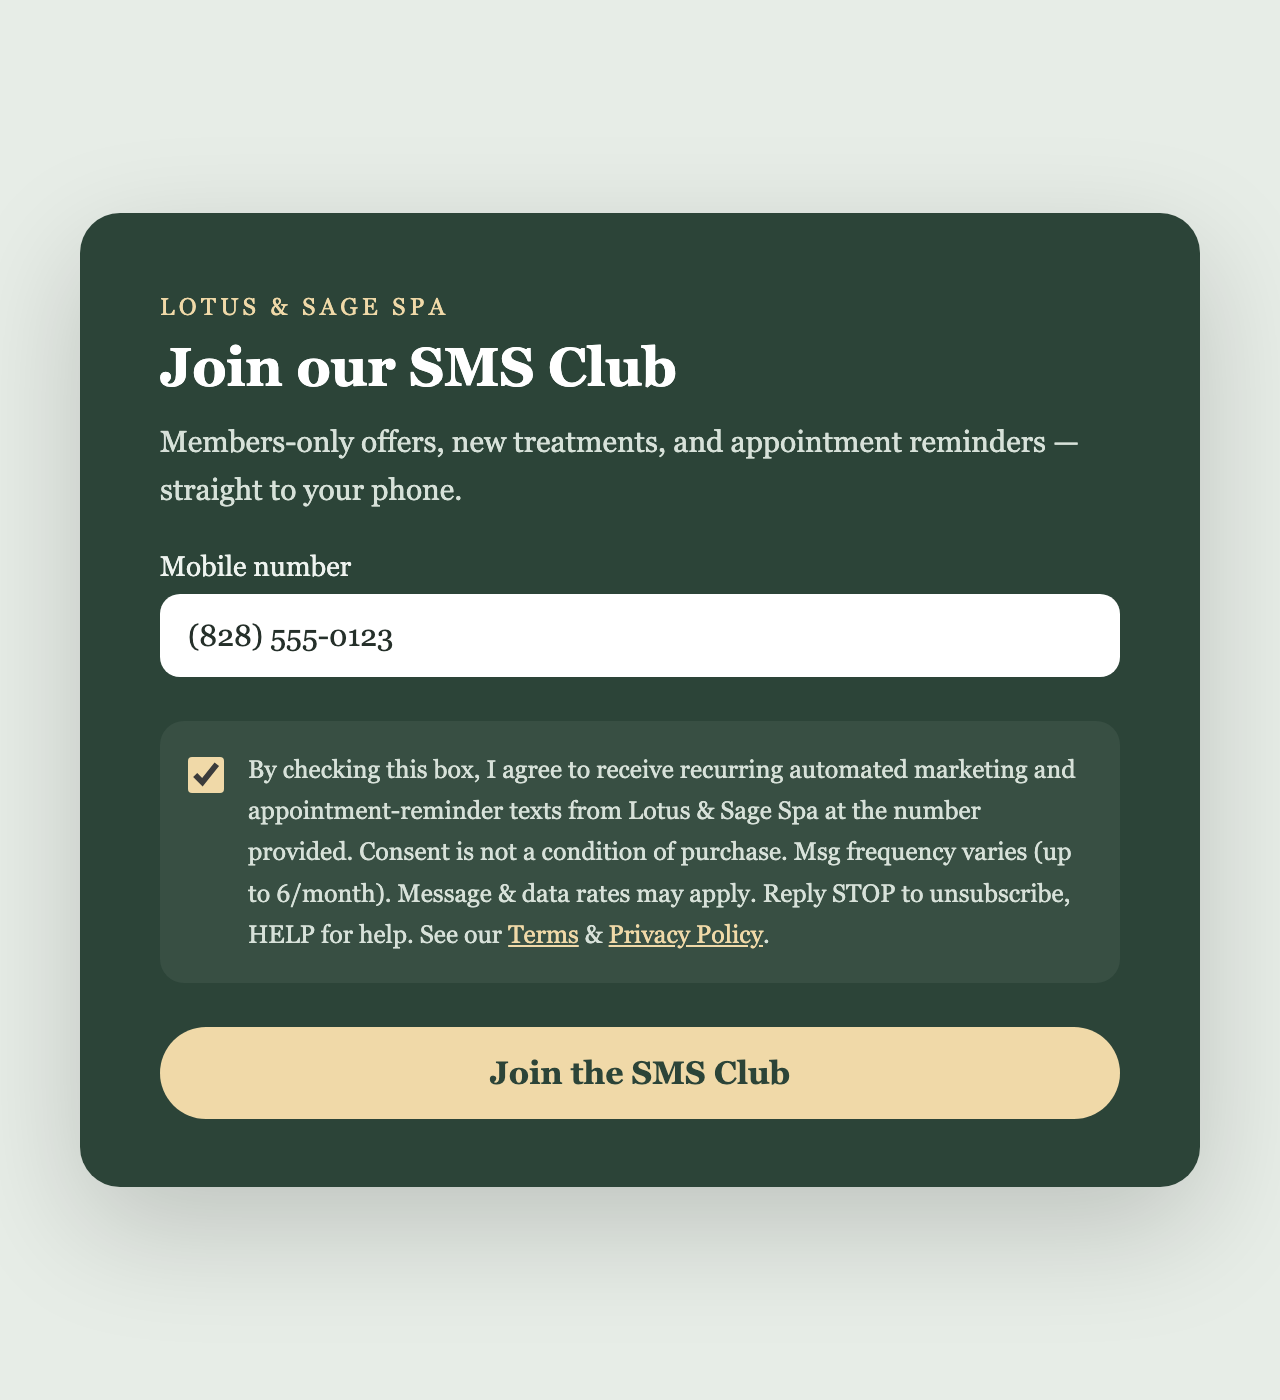
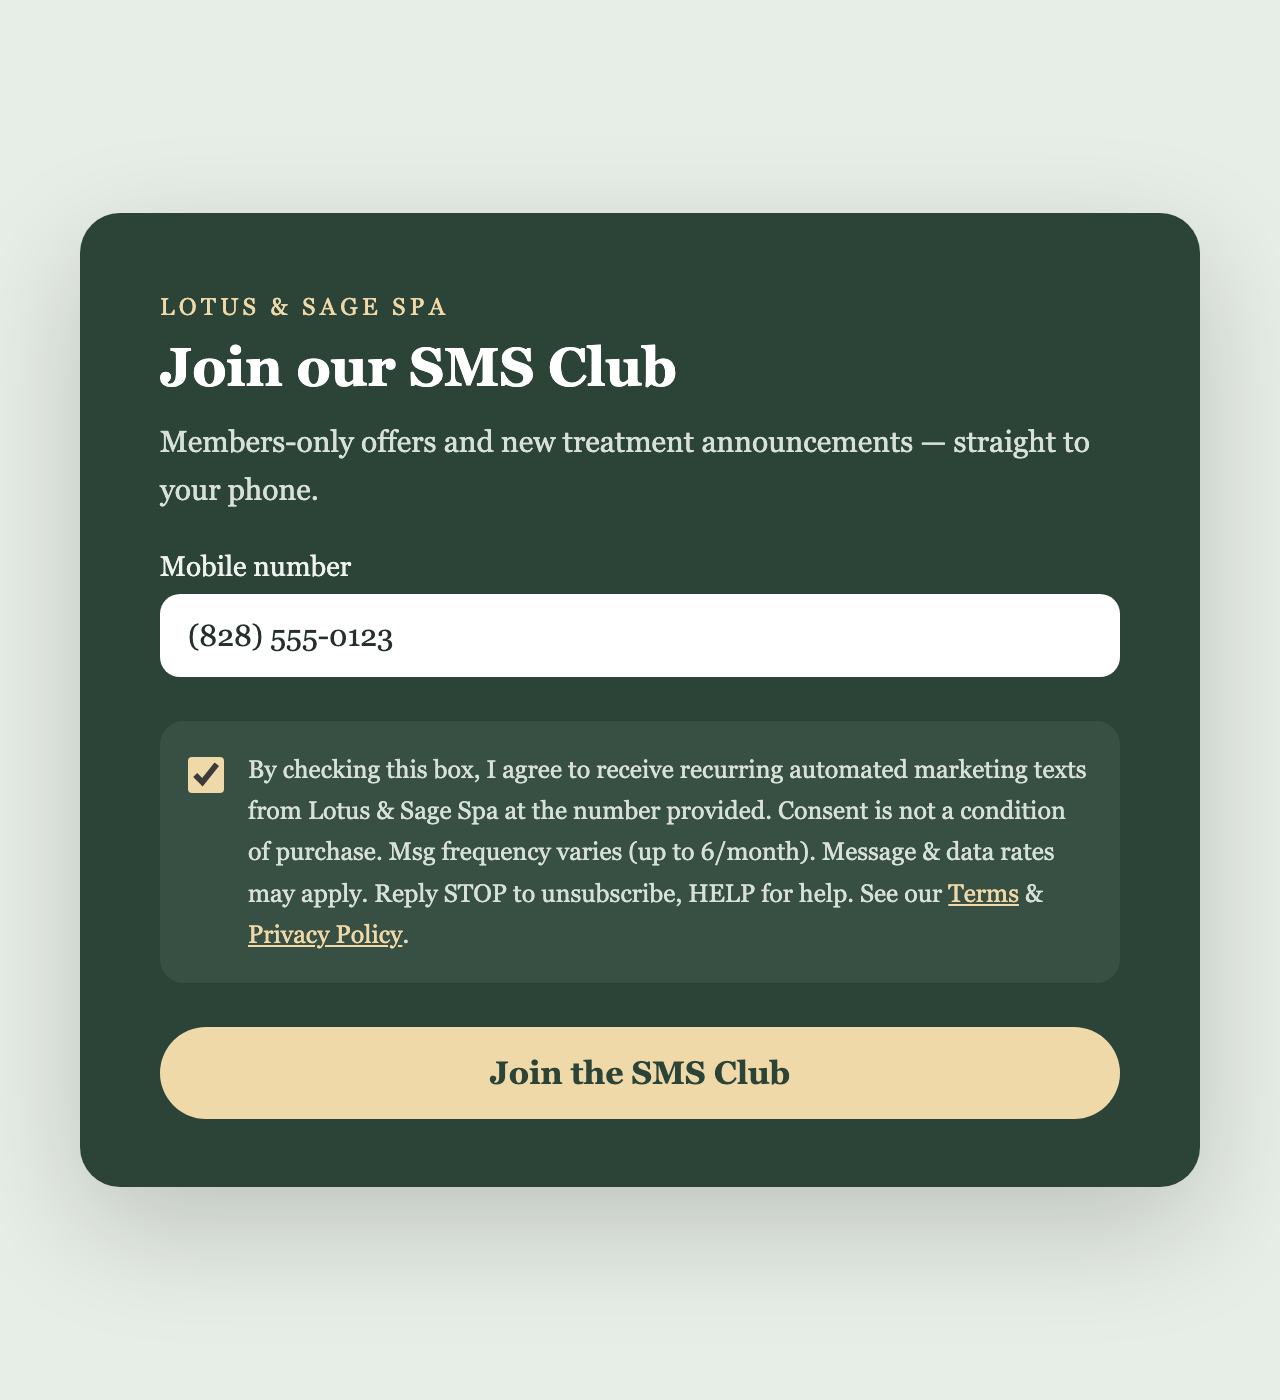
Make consent surfaces single-purpose (marketing-only)
Removes the bundled marketing+transactional language so each site surfaces
its intended distinct failure (spa: pre-checked box; market: consent required
to check out) without the overlapping mixed-use-case flag.

Changed region(s): [[0.1875, 0.5221, 0.8438, 0.6757], [0.3438, 0.3071, 0.8438, 0.3379], [0.125, 0.3379, 0.3438, 0.3686]]

diff --git a/spa/index.html b/spa/index.html
@@ -122,8 +122,8 @@
         <div class="signup">
           <h2>Join the Lotus &amp; Sage SMS Club</h2>
           <p>
-            Get members-only offers, new treatment announcements, and appointment
-            reminders by text from Lotus &amp; Sage Spa.
+            Get members-only offers and new treatment announcements by text from
+            Lotus &amp; Sage Spa.
           </p>
           <form action="#" method="post">
             <label for="name">Full name</label>
@@ -139,10 +139,10 @@
               <input type="checkbox" id="sms_consent" name="sms_consent" />
               <label for="sms_consent">
                 By checking this box, I agree to receive recurring automated marketing
-                and appointment-reminder text messages from Lotus &amp; Sage Spa at the
-                number provided. Consent is not a condition of any purchase. Message
-                frequency varies (up to 6 messages/month). Message &amp; data rates may
-                apply. Reply STOP to unsubscribe, HELP for help. See our
+                text messages from Lotus &amp; Sage Spa at the number provided. Consent
+                is not a condition of any purchase. Message frequency varies (up to 6
+                messages/month). Message &amp; data rates may apply. Reply STOP to
+                unsubscribe, HELP for help. See our
                 <a href="terms.html">Terms of Service</a> and
                 <a href="privacy.html">Privacy Policy</a>.
               </label>

diff --git a/spa/consent.html b/spa/consent.html
@@ -41,8 +41,7 @@
       <div class="kicker">Lotus &amp; Sage Spa</div>
       <h1>Join our SMS Club</h1>
       <p class="lead">
-        Members-only offers, new treatments, and appointment reminders — straight to
-        your phone.
+        Members-only offers and new treatment announcements — straight to your phone.
       </p>
 
       <label class="fld" for="phone">Mobile number</label>
@@ -51,9 +50,9 @@
       <div class="consent">
         <input type="checkbox" id="c" checked />
         <label for="c">
-          By checking this box, I agree to receive recurring automated marketing and
-          appointment-reminder texts from Lotus &amp; Sage Spa at the number provided.
-          Consent is not a condition of purchase. Msg frequency varies (up to 6/month).
+          By checking this box, I agree to receive recurring automated marketing texts
+          from Lotus &amp; Sage Spa at the number provided. Consent is not a condition of
+          purchase. Msg frequency varies (up to 6/month).
           Message &amp; data rates may apply. Reply STOP to unsubscribe, HELP for help.
           See our <a href="#">Terms</a> &amp; <a href="#">Privacy Policy</a>.
         </label>

diff --git a/market/consent.html b/market/consent.html
@@ -46,16 +46,16 @@
         <div class="line total"><span>Total</span><span>$53.00</span></div>
       </div>
 
-      <label class="fld" for="phone">Mobile number (for order updates)</label>
+      <label class="fld" for="phone">Mobile number</label>
       <input type="tel" id="phone" value="(845) 555-0188" />
 
       <div class="consent">
         <input type="checkbox" id="c" />
         <label for="c">
           <span class="req">Required to place your order.</span> I agree to receive
-          recurring automated marketing and order-update texts from Red Barn Market at
-          the number above. You must agree to receive these texts to complete checkout.
-          Reply STOP to cancel, HELP for help. Message &amp; data rates may apply.
+          recurring automated marketing texts (deals &amp; offers) from Red Barn Market
+          at the number above. You must agree to receive these texts to complete
+          checkout. Reply STOP to cancel, HELP for help. Message &amp; data rates may apply.
         </label>
       </div>
 

diff --git a/market/index.html b/market/index.html
@@ -108,7 +108,7 @@
             <div class="consent">
               <input type="checkbox" id="sms_optin" name="sms_optin" />
               <label for="sms_optin">
-                Yes, text me weekly deals and order updates from Red Barn Market.
+                Yes, text me weekly deals and offers from Red Barn Market.
                 Reply STOP to cancel. Message &amp; data rates may apply.
               </label>
             </div>